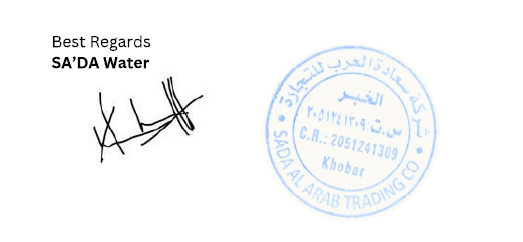
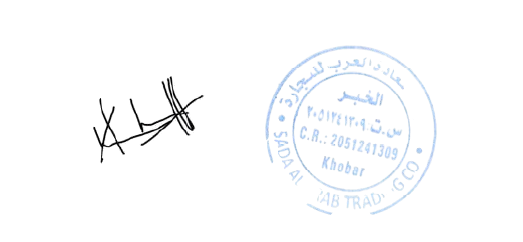
Your message about what you changed

diff --git a/frontend/src/App.css b/frontend/src/App.css
@@ -198,31 +198,19 @@ body {
 }
 
 .signature-placeholder {
-  margin-top: 15px;
+  margin-top: 5px;
   position: relative;
-  min-height: 100px; /* Leave space for the seal where you pointed */
+  min-height: 80px; 
 }
 
-.digital-signLine {
-  width: 140px;
-  border-bottom: 2px solid #ccc;
-  margin-bottom: 5px;
-}
-
-.signature-label {
-  font-style: italic;
-  color: #888;
-  font-size: 12px;
-  display: block;
-}
 
 .seal-img {
-  width: 130px;
+  width: 150px; /* Slightly larger to be the main element */
   position: absolute;
-  top: -20px; /* Offset to feel "stamped" on the signature line area */
-  left: 30px;
-  opacity: 0.85;
-  mix-blend-mode: multiply; /* Blends with white background */
+  top: 0;
+  left: 0;
+  opacity: 0.95;
+  mix-blend-mode: multiply;
   pointer-events: none;
   z-index: 5;
   filter: drop-shadow(0 2px 4px rgba(0,0,0,0.1));

diff --git a/frontend/src/App.jsx b/frontend/src/App.jsx
@@ -395,8 +395,6 @@ const App = () => {
                 <p className="regards-text">Best Regards</p>
                 <p className="company-sig-text">SA'DA Water</p>
                 <div className="signature-placeholder">
-                  <div className="digital-signLine"></div>
-                  <span className="signature-label">[Signature]</span>
                   <img src="/seal.png" alt="Seal" className="seal-img" />
                 </div>
               </div>
